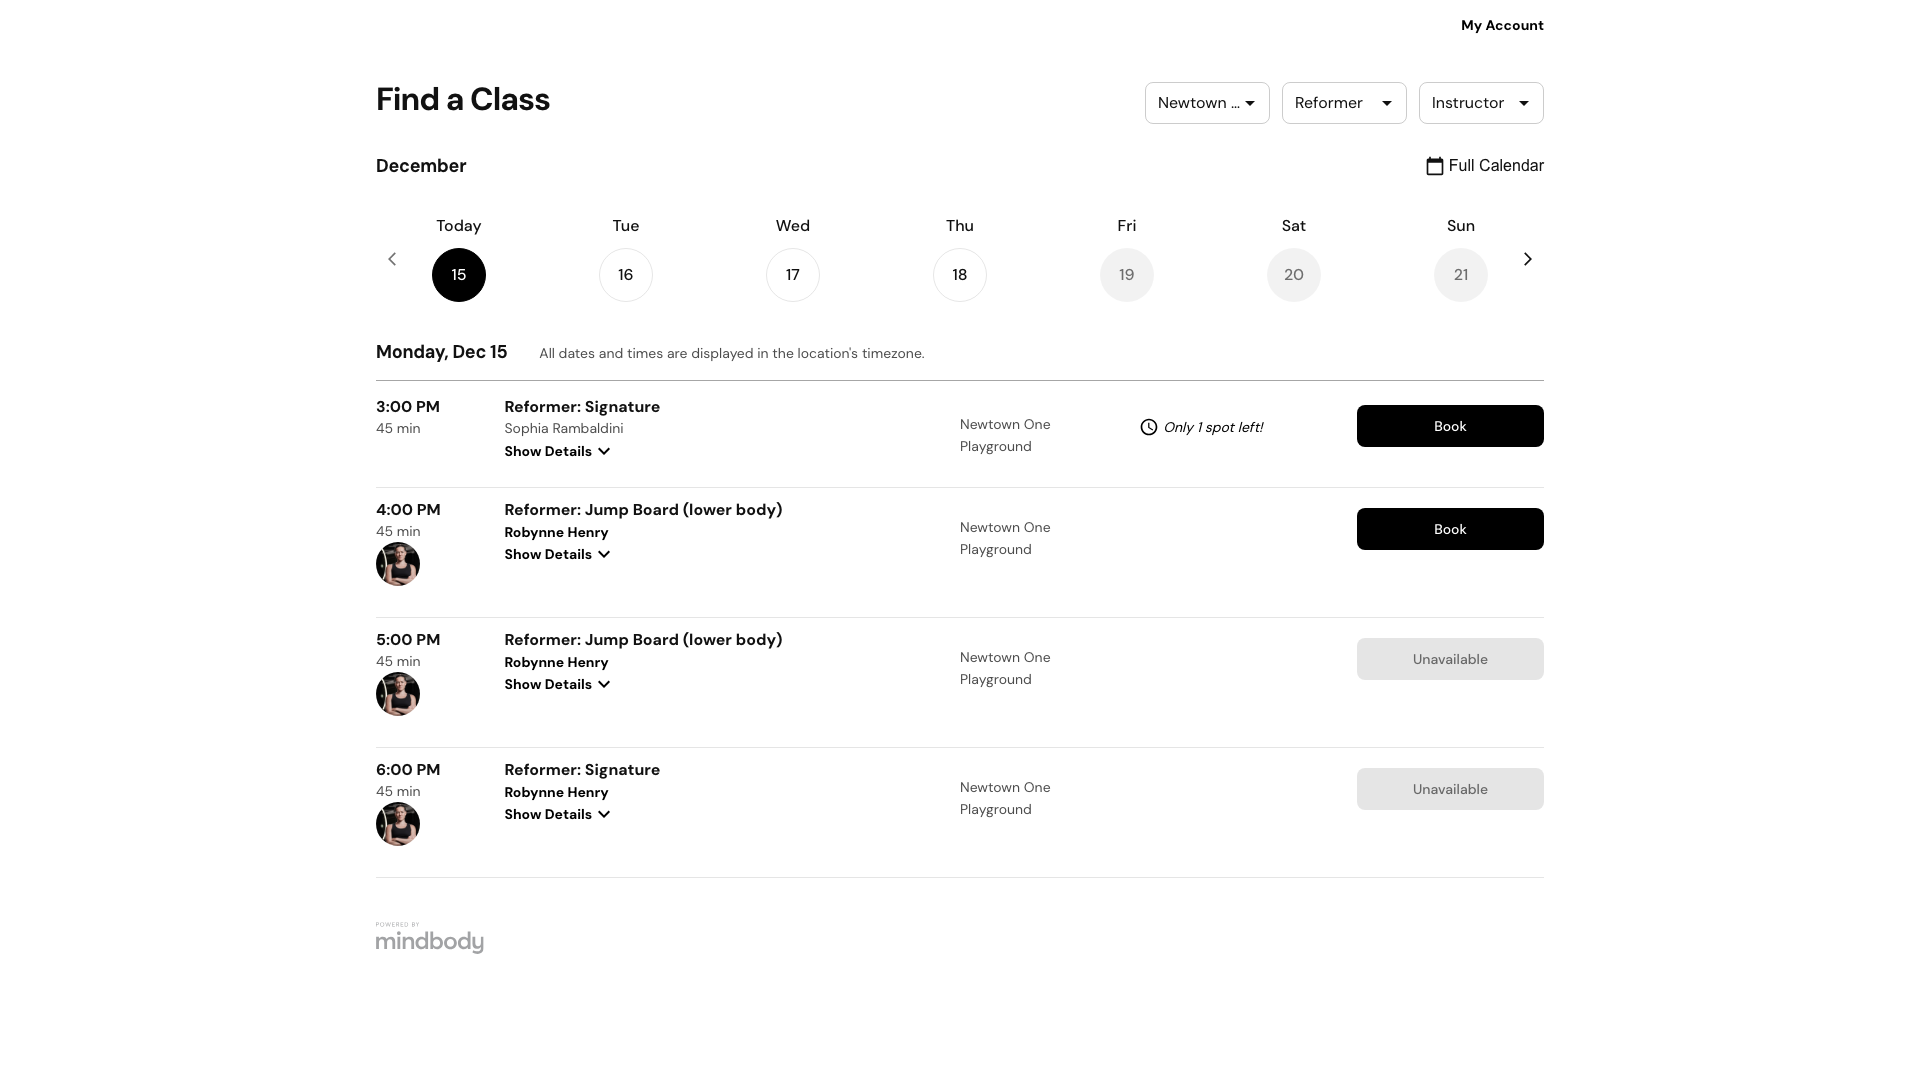
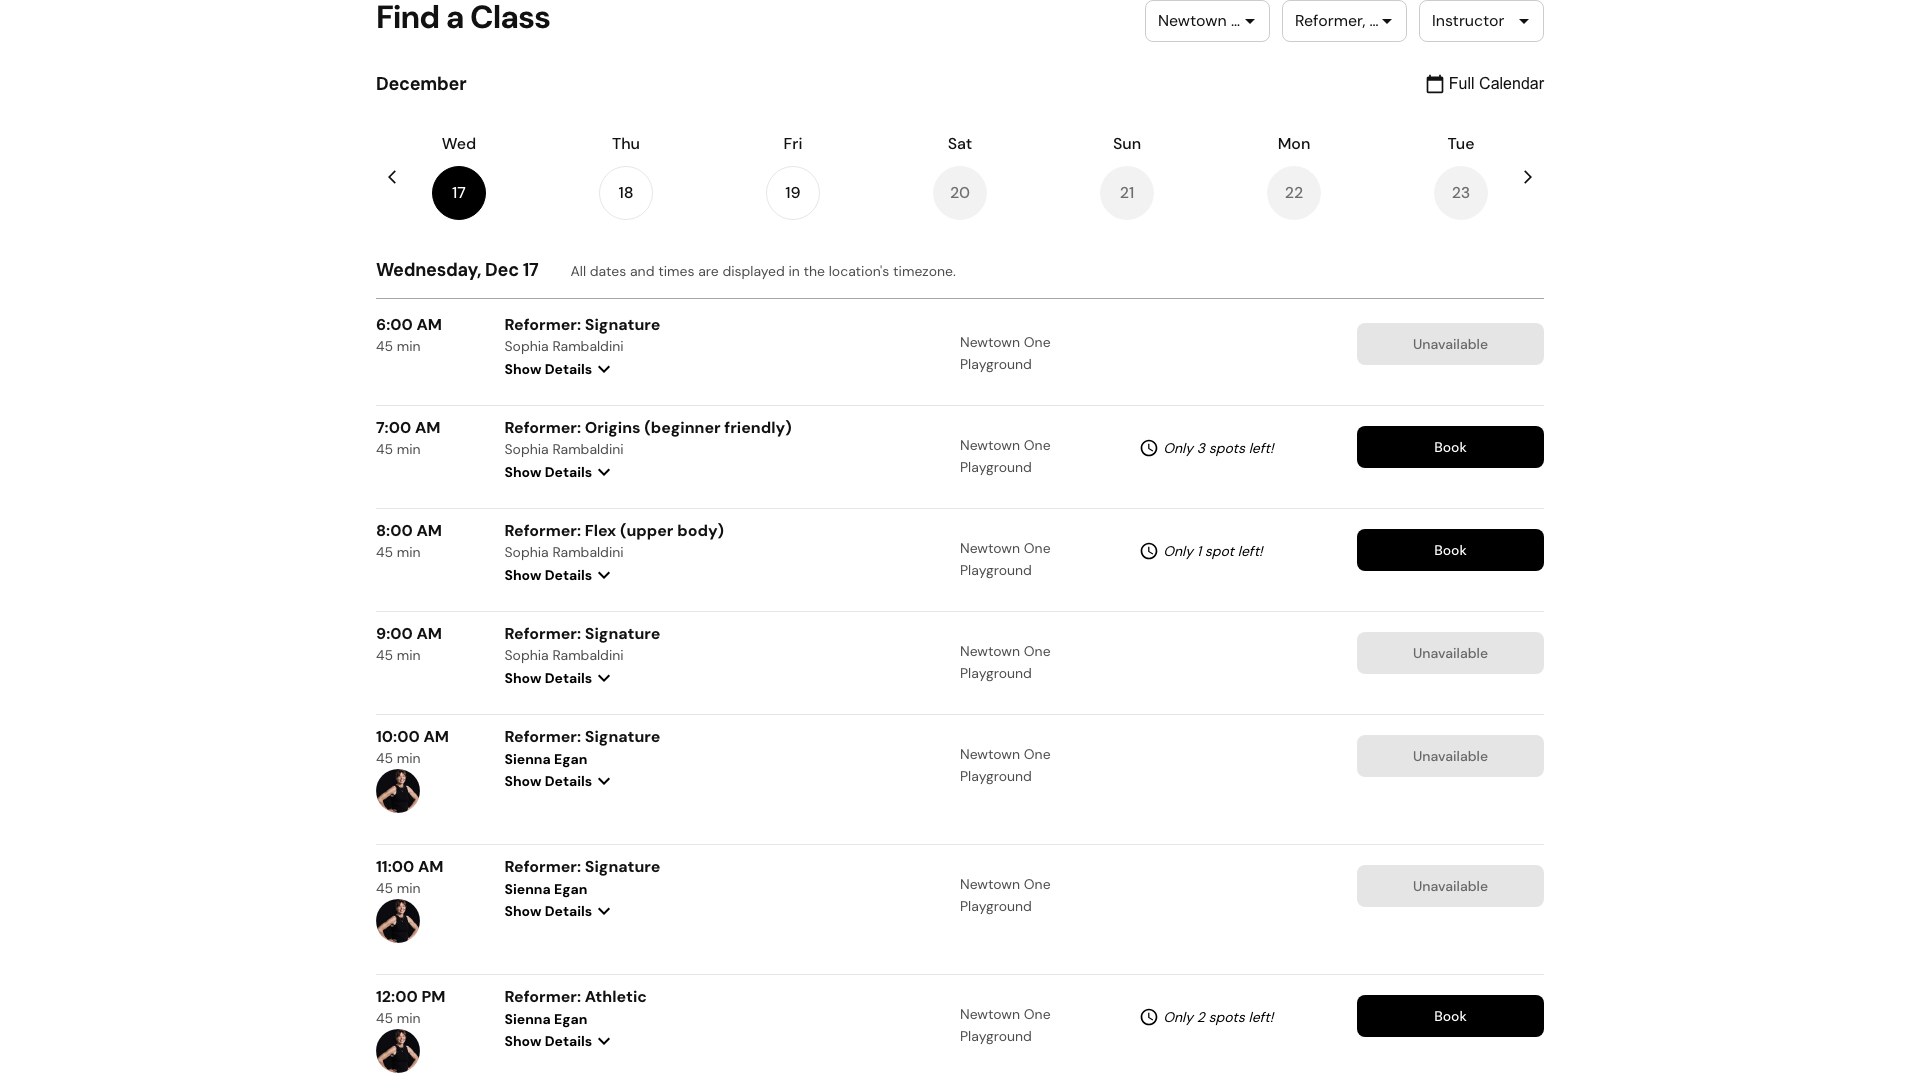
Added Date Selection feature

diff --git a/filters.py b/filters.py
@@ -1,4 +1,5 @@
-from playwright.sync_api import Page, Browser, sync_playwright, Playwright
+from playwright.sync_api import Page, Browser, Playwright
+import datetime
 import time
 import logging
 import sys
@@ -6,7 +7,6 @@ import sys
 logging.basicConfig(level=logging.INFO)
 logger = logging.getLogger(__name__)
 
-STATE = 0
 
 def page_init(playwright:Playwright, url:str) -> tuple[Browser, Page]:
     browser = playwright.chromium.launch()
@@ -21,7 +21,7 @@ def screenshot(page, ele = None) -> None:
         page.screenshot(path = f'output/{ele}_screenshot.png')
         return
     logger.info(f'Screenshotting page!')
-    page.screenshot(path=f'output/{STATE}_view_screenshot.png', fullPage=True)
+    page.screenshot(path=f'output/full_view_screenshot.png', fullPage=True)
 
 def evaluate_page(page:Page) -> list:
     with open('filters_finder.js', '+r') as f:
@@ -53,7 +53,6 @@ def backdrop_check(page:Page):
     except Exception as e:
         logger.error(f'Failed to reset view: {e}')
         sys.exit()
-
 
 def scroll_and_click(page: Page, text: str):
     logger.info(f"Looking for option: '{text}'...")
@@ -103,4 +102,40 @@ def update_filters(page: Page, locations:list[str] = [],
         backdrop_check(page)
     logger.info(f'Filters Applied.')
 
+def select_date(page:Page, selection_date:str):
+    date_iso = datetime.date.fromisoformat(selection_date)
+    today = datetime.date.today()
+    
+    logger.info(f'Selecting Date: {date_iso}')
+    
+    if date_iso.month > today.month:
+        page.locator("button[title='Next month']").click()
+        time.sleep(0.2)
+    
+    calendar = page.get_by_text('Full Calendar', exact=False)
+    calendar.click()
+    
+    calendar = page.locator('div.MuiDateCalendar-root')
+    calendar.wait_for(state='visible', timeout=3000)
+    
+    day_element = calendar.get_by_role('gridcell', name=str(date_iso.day), exact=True)
+    
+    if not day_element.is_visible():
+        logger.info("Day not found. Trying next month...")
+        page.locator("div[role='dialog'] button[title='Next month']").click()
+        time.sleep(0.5)
 
+    if not day_element.count():
+        day_element = calendar.get_by_role("button", name=date_iso.day, exact=True)
+        
+    if day_element.is_visible():
+        day_element.click()
+        logger.info(f"Selected day {date_iso.day}")
+    else:
+        logger.error(f"Day {date_iso.day} not found in current month view.")
+        page.keyboard.press("Escape")
+        return
+
+    apply_element = page.get_by_role('button', name='Apply', exact=True)
+    apply_element.click()
+    apply_element.wait_for(state='hidden', timeout=500)

diff --git a/main.py b/main.py
@@ -1,5 +1,6 @@
 from playwright.sync_api import sync_playwright
 import logging
+import datetime
 from filters import *
 
 logging.basicConfig(level=logging.INFO)
@@ -10,9 +11,12 @@ URL_2 = 'https://clients.mindbodyonline.com/classic/mainclass'
 
 if __name__ == '__main__':
     selection = ['Jaclyn Bogdanovic', '05:00PM', 'Newtown One Playground']
+    date = "2025-12-17"
+    
     with sync_playwright() as spw:
         browser, page = page_init(spw, URL_1)
         data = evaluate_page(page)
-        print(data)
-        update_filters(page, [selection[-1]], class_types=['Reformer', 'Mat Pilates'])
+        # print(data)
+        select_date(page, date)
+        update_filters(page, [selection[-1]], class_types=['Reformer', 'Yoga Series'])
         screenshot(page, ele = 'Final')
